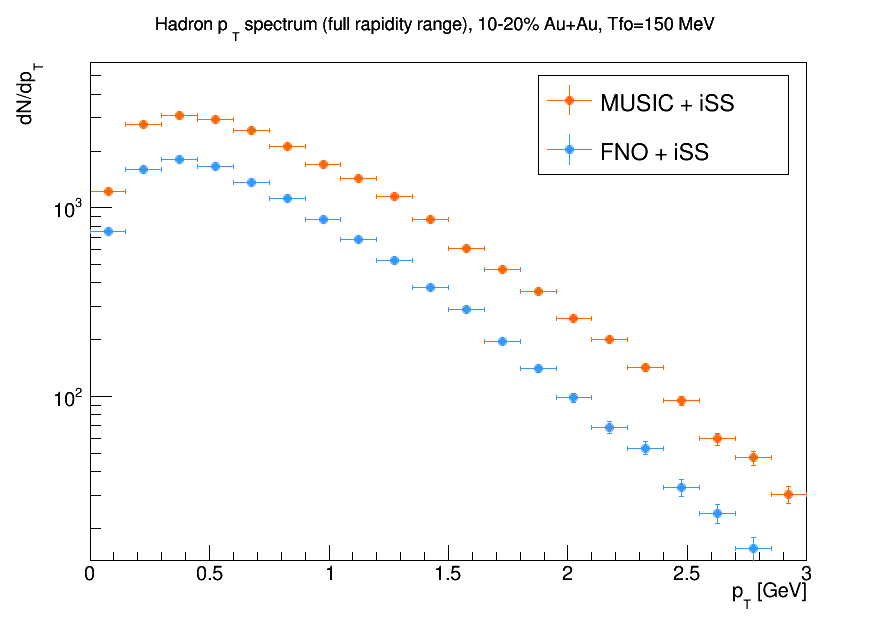
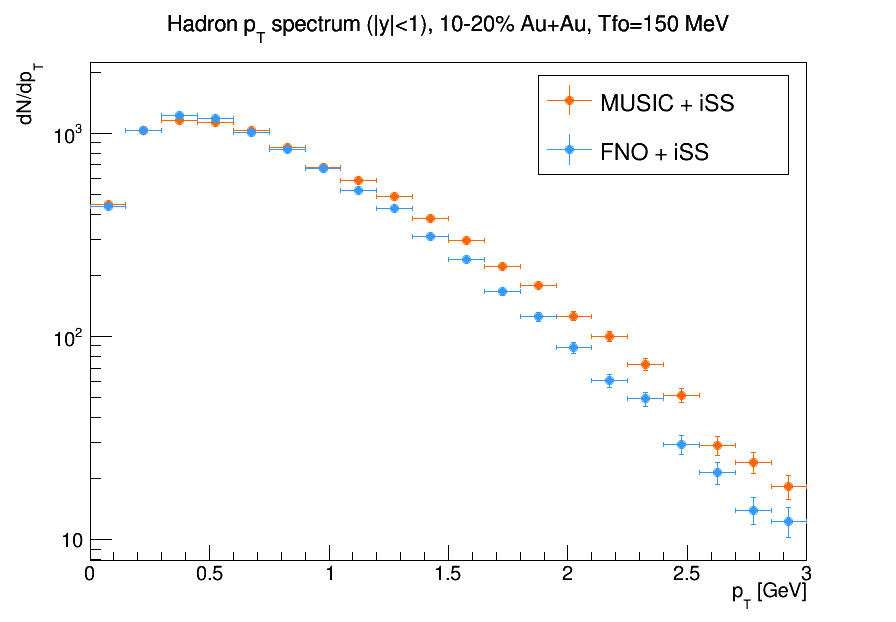
Restrict all pT spectrum comparisons to mid-rapidity (|y|<1)
Regenerated all five pT plots using the same underlying final-state-hadron
data, filtered to |y|<1 instead of the full rapidity range. Mid-rapidity
agreement between FNO and MUSIC is noticeably tighter than the full-range
comparison (full range gets dragged down by FNO's narrower eta acceptance
at the edges), consistent with everything already established about where
FNO's physics is trustworthy. Updated captions accordingly.

diff --git a/contribs/FnoHydro/PARTICLIZATION_INVESTIGATION.md b/contribs/FnoHydro/PARTICLIZATION_INVESTIGATION.md
@@ -67,12 +67,12 @@ show a real, localized peak at y≈0 for FNO:
 
 ![Final sampled hadron rapidity, FNO vs MUSIC, FNO shows a real central peak](docs/particlization_investigation/final_sampled_rapidity_peak.png)
 
-The pT spectrum (full rapidity range) from the same ensemble shows no
-corresponding shape anomaly -- FNO tracks MUSIC's slope closely, sitting at a
-roughly constant fractional offset across the whole range (the peak is
-strictly a rapidity-direction effect, not a pT-direction one):
+The mid-rapidity (|y|<1) pT spectrum from the same ensemble shows no
+corresponding shape anomaly -- FNO tracks MUSIC's slope and normalization
+closely (the peak is strictly a rapidity-direction effect, not a
+pT-direction one):
 
-![Hadron pT spectrum, 30-40% Au+Au, Tfo=136 MeV, FNO vs MUSIC -- slopes track in parallel](docs/particlization_investigation/pt_spectrum_peak.png)
+![Hadron pT spectrum, |y|<1, 30-40% Au+Au, Tfo=136 MeV, FNO vs MUSIC -- slopes and normalization track closely](docs/particlization_investigation/pt_spectrum_peak.png)
 
 (Plotted with `example/plot_eta_evolution.py <eta_profile.csv> [out.png] [label]`,
 `example/plot_final_peak.py <spectra_comparison.root>` (rapidity), and
@@ -210,11 +210,11 @@ ensemble sizes; bin errors <1%, so this is statistically solid, not noise):
 
 ![Final sampled hadron rapidity at Tfo=150 MeV, FNO vs MUSIC -- peak reduced but not eliminated](docs/particlization_investigation/final_sampled_rapidity_Tfo150.png)
 
-pT spectrum, same ensemble -- still just a parallel-slope, constant-offset
-comparison, unaffected by the Tfo change (as expected, since Tfo only shifts
-the rapidity-direction shape, not pT):
+Mid-rapidity (|y|<1) pT spectrum, same ensemble -- still a close
+slope/normalization match, unaffected by the Tfo change (as expected, since
+Tfo only shifts the rapidity-direction shape, not pT):
 
-![Hadron pT spectrum, 30-40% Au+Au, Tfo=150 MeV, FNO vs MUSIC](docs/particlization_investigation/pt_spectrum_Tfo150.png)
+![Hadron pT spectrum, |y|<1, 30-40% Au+Au, Tfo=150 MeV, FNO vs MUSIC](docs/particlization_investigation/pt_spectrum_Tfo150.png)
 
 **Conclusion**: raising the freeze-out temperature meaningfully *shrinks* the
 central peak -- roughly a 30% relative reduction in the narrow window, ~46%
@@ -280,16 +280,16 @@ weakly or not at all to the Tfo fix; the two less-central bins (20-30%,
 seen anywhere in this investigation. All four, at Tfo=150 MeV, side by side:
 
 ![Hadron rapidity, 0-10% centrality, Tfo=150 MeV -- FNO still shows a mild excess at center](docs/particlization_investigation/y_spectrum_0_10_Tfo150.png)
-![Hadron pT spectrum, 0-10% centrality, Tfo=150 MeV](docs/particlization_investigation/pt_spectrum_0_10_Tfo150.png)
+![Hadron pT spectrum, |y|<1, 0-10% centrality, Tfo=150 MeV](docs/particlization_investigation/pt_spectrum_0_10_Tfo150.png)
 
 ![Hadron rapidity, 10-20% centrality, Tfo=150 MeV -- FNO still shows a mild excess at center](docs/particlization_investigation/y_spectrum_10_20_Tfo150.png)
-![Hadron pT spectrum, 10-20% centrality, Tfo=150 MeV](docs/particlization_investigation/pt_spectrum_10_20_Tfo150.png)
+![Hadron pT spectrum, |y|<1, 10-20% centrality, Tfo=150 MeV](docs/particlization_investigation/pt_spectrum_10_20_Tfo150.png)
 
 ![Hadron rapidity, 20-30% centrality, Tfo=150 MeV -- FNO tracks MUSIC closely through the whole shared midrapidity region](docs/particlization_investigation/y_spectrum_20_30_Tfo150.png)
-![Hadron pT spectrum, 20-30% centrality, Tfo=150 MeV](docs/particlization_investigation/pt_spectrum_20_30_Tfo150.png)
+![Hadron pT spectrum, |y|<1, 20-30% centrality, Tfo=150 MeV](docs/particlization_investigation/pt_spectrum_20_30_Tfo150.png)
 
 ![Hadron rapidity, 30-40% centrality, Tfo=150 MeV (15 FNO events / 5 MUSIC events ensemble) -- peak reduced but not eliminated](docs/particlization_investigation/final_sampled_rapidity_Tfo150.png)
-![Hadron pT spectrum, 30-40% centrality, Tfo=150 MeV (same ensemble)](docs/particlization_investigation/pt_spectrum_Tfo150.png)
+![Hadron pT spectrum, |y|<1, 30-40% centrality, Tfo=150 MeV (same ensemble)](docs/particlization_investigation/pt_spectrum_Tfo150.png)
 
 (The 30-40% plots are the ensemble versions from the "Parameter study"
 section above, shown again here for direct side-by-side comparison with the
